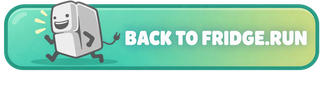
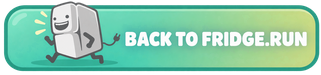
Back button art trimmed to the pill (no empty strip under it), sizes updated

diff --git a/phone/index.html b/phone/index.html
@@ -24,7 +24,7 @@
 </head>
 <body>
   <main>
-    <header class="bar"><a class="brand" href="/"><img src="/logo.png" alt=""><span>fridge.run</span></a><a class="back-btn" href="/"><picture><source type="image/webp" srcset="/media/back-button.webp 1x, /media/back-button@2x.webp 2x"><img src="/media/back-button.png" srcset="/media/back-button@2x.png 2x" width="200" height="55" alt="Back to fridge.run"></picture></a></header>
+    <header class="bar"><a class="brand" href="/"><img src="/logo.png" alt=""><span>fridge.run</span></a><a class="back-btn" href="/"><picture><source type="image/webp" srcset="/media/back-button.webp 1x, /media/back-button@2x.webp 2x"><img src="/media/back-button.png" srcset="/media/back-button@2x.png 2x" width="200" height="47" alt="Back to fridge.run"></picture></a></header>
     <section class="panel">
       <h1><span class="ico" aria-hidden="true">📱</span>Open on your phone</h1>
       <div class="qr" id="qr" role="img" aria-label="QR code"></div>

diff --git a/status/index.html b/status/index.html
@@ -87,7 +87,7 @@
 </head>
 <body>
   <main class="wrap">
-    <header class="bar"><a class="brand" href="/"><img src="/logo.png" alt=""><span>fridge.run</span></a><a class="back-btn" href="/"><picture><source type="image/webp" srcset="/media/back-button.webp 1x, /media/back-button@2x.webp 2x"><img src="/media/back-button.png" srcset="/media/back-button@2x.png 2x" width="200" height="55" alt="Back to fridge.run"></picture></a></header>
+    <header class="bar"><a class="brand" href="/"><img src="/logo.png" alt=""><span>fridge.run</span></a><a class="back-btn" href="/"><picture><source type="image/webp" srcset="/media/back-button.webp 1x, /media/back-button@2x.webp 2x"><img src="/media/back-button.png" srcset="/media/back-button@2x.png 2x" width="200" height="47" alt="Back to fridge.run"></picture></a></header>
     <div class="head">
       <h1><span class="ico" aria-hidden="true">📡</span>Status</h1>
     </div>

diff --git a/404.html b/404.html
@@ -21,7 +21,7 @@
 </head>
 <body>
   <main>
-    <header class="bar"><a class="brand" href="/"><img src="/logo.png" alt=""><span>fridge.run</span></a><a class="back-btn" href="/"><picture><source type="image/webp" srcset="/media/back-button.webp 1x, /media/back-button@2x.webp 2x"><img src="/media/back-button.png" srcset="/media/back-button@2x.png 2x" width="200" height="55" alt="Back to fridge.run"></picture></a></header>
+    <header class="bar"><a class="brand" href="/"><img src="/logo.png" alt=""><span>fridge.run</span></a><a class="back-btn" href="/"><picture><source type="image/webp" srcset="/media/back-button.webp 1x, /media/back-button@2x.webp 2x"><img src="/media/back-button.png" srcset="/media/back-button@2x.png 2x" width="200" height="47" alt="Back to fridge.run"></picture></a></header>
     <section class="panel">
       <div class="emoji" aria-hidden="true">🔍</div>
       <h1>Nothing here</h1>
